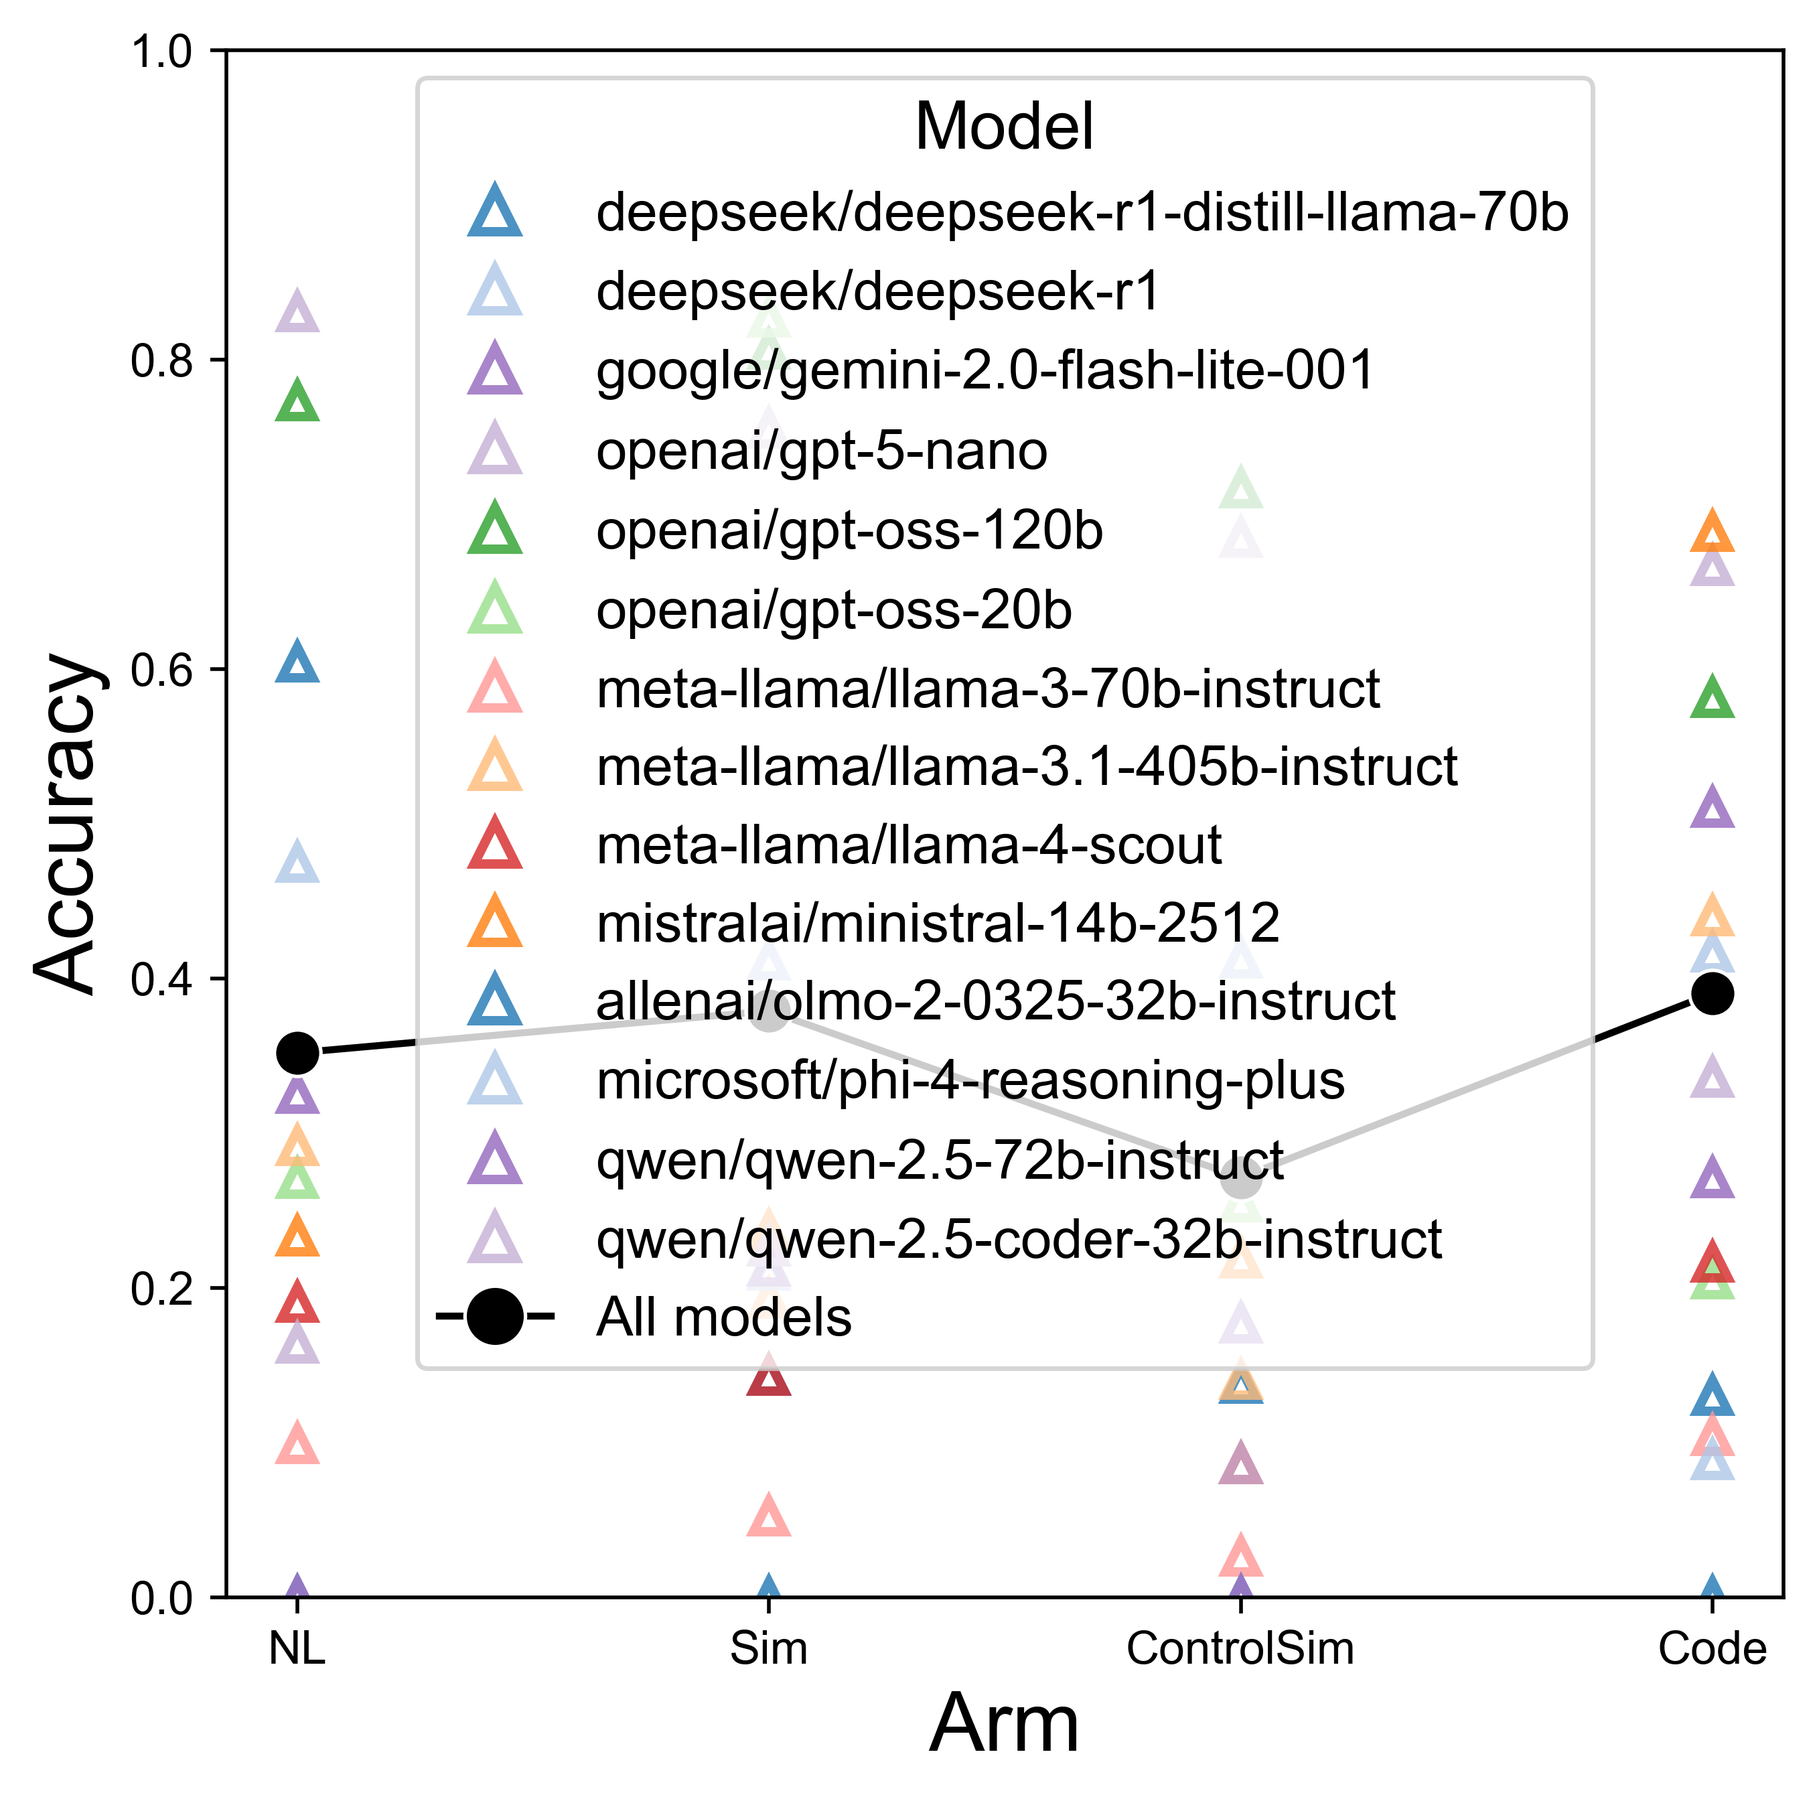
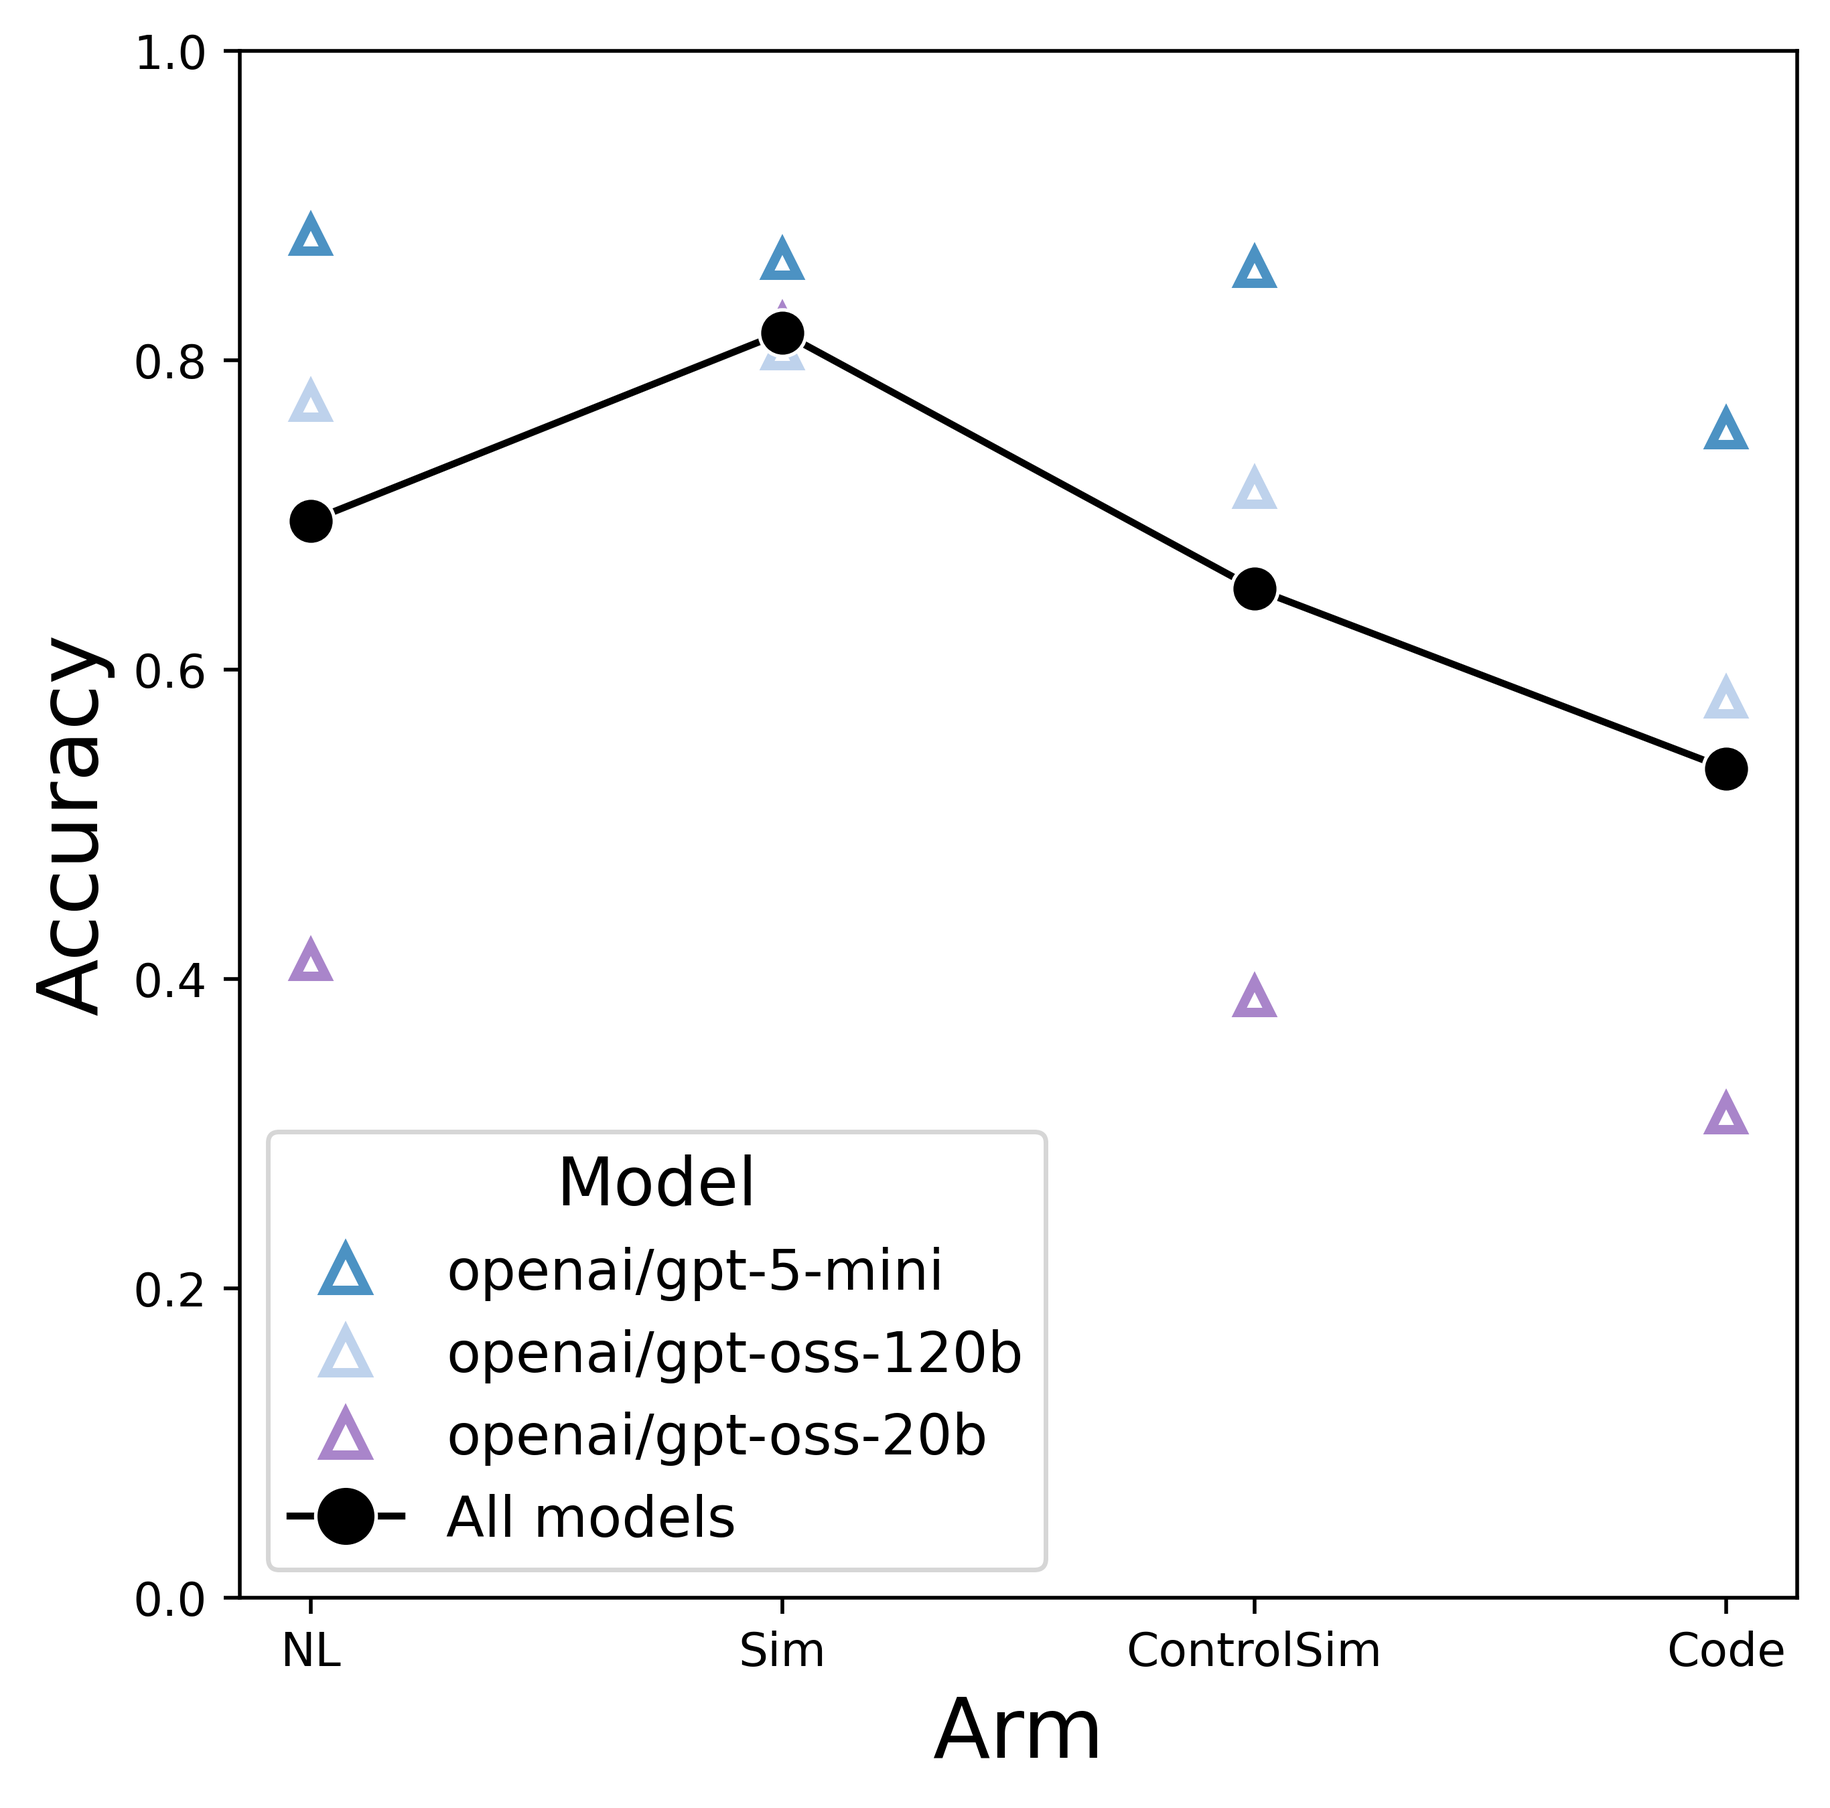
added parsing logic

diff --git a/src/exps_performance/problems/__init__.py b/src/exps_performance/problems/__init__.py
@@ -1,3 +1,6 @@
+import ast
+import json
+import re
 from abc import ABC, abstractmethod
 from dataclasses import dataclass
 from typing import Any, Sequence, Tuple, Type, Union
@@ -8,6 +11,7 @@ from langchain_core.prompts.prompt import PromptTemplate
 from pydantic import BaseModel, Field
 
 from src.exps_performance.logger import Record
+from src.exps_performance.utils import remove_json_backticks, remove_python_triple_quote
 
 
 class CheckAndFormat(ABC):
@@ -25,11 +29,99 @@ class CheckAndFormat(ABC):
     def decision_check(self, q: Any, output: Any) -> Tuple[bool, Any]:
         raise NotImplementedError
 
-    def parse_output(self, output: Any) -> Tuple[BaseModel, str]:  # returns one of the pydantic objects
+    def _strip_fences(self, text: str) -> str:
+        """Remove common markdown fences/backticks that break JSON parsing."""
+        text = remove_json_backticks(text)
+        if "```" in text:
+            text = re.sub(r"^```[a-zA-Z0-9]*\s*", "", text.strip(), flags=re.DOTALL)
+            text = text.replace("```", "")
+        return text.strip()
+
+    def _extract_json_span(self, text: str) -> str:
+        """Keep content between the first opening and last closing brace/bracket."""
+        starts = [pos for pos in (text.find("{"), text.find("[")) if pos != -1]
+        ends = [pos for pos in (text.rfind("}"), text.rfind("]")) if pos != -1]
+        if not starts or not ends:
+            return text
+        start = min(starts)
+        end = max(ends)
+        return text[start : end + 1] if start < end else text
+
+    def _strip_trailing_commas(self, text: str) -> str:
+        return re.sub(r",(\s*[}\]])", r"\1", text)
+
+    def _normalize_single_quotes(self, text: str) -> str:
+        """Swap single quotes to double quotes when no double quotes are present."""
+        if '"' not in text and "'" in text:
+            return text.replace("'", '"')
+        return text
+
+    def _same_as_default(self, parsed: BaseModel, default_model: BaseModel) -> bool:
         try:
-            return self.parser.parse(output), "ok"  # ok
+            if hasattr(parsed, "model_dump") and hasattr(default_model, "model_dump"):
+                return bool(parsed.model_dump() == default_model.model_dump())
+            if hasattr(parsed, "dict") and hasattr(default_model, "dict"):
+                return bool(parsed.dict() == default_model.dict())  # type: ignore[call-arg]
+        except Exception:  # noqa: BLE001
+            return False
+        return False
+
+    def parse_output(self, output: Any) -> Tuple[BaseModel, str]:  # returns one of the pydantic objects
+        model_cls = self.PROB_TYPES[self.prob_type]
+        default_model = model_cls()
+        last_err: str | Exception = "parse_failed"
+
+        # First attempt: strict LangChain parser.
+        try:
+            parsed = self.parser.parse(output)
+            if not self._same_as_default(parsed, default_model):
+                return parsed, "ok"  # ok
+            last_err = "empty_parse"
         except OutputParserException as e:
-            return self.PROB_TYPES[self.prob_type](), e  # err
+            last_err = e  # keep for diagnostics
+
+        text = output if isinstance(output, str) else str(output)
+        text = remove_python_triple_quote(text)
+        text = self._strip_fences(text)
+        text = text.strip()
+
+        candidates = []
+        base = self._extract_json_span(text)
+        candidates.append(base)
+
+        trimmed = self._strip_trailing_commas(base)
+        if trimmed != base:
+            candidates.append(trimmed)
+
+        normalized = self._normalize_single_quotes(trimmed)
+        if normalized not in candidates:
+            candidates.append(normalized)
+
+        # De-duplicate while preserving order.
+        seen = set()
+        unique_candidates = []
+        for cand in candidates:
+            if cand not in seen:
+                unique_candidates.append(cand)
+                seen.add(cand)
+
+        for cand in unique_candidates:
+            try:
+                loaded = json.loads(cand)
+                if isinstance(loaded, dict):
+                    return model_cls(**loaded), "ok"
+            except Exception as json_err:  # noqa: BLE001
+                last_err = json_err
+
+            # Try pythonic dicts / numbers (e.g., single quotes) via literal_eval.
+            try:
+                loaded = ast.literal_eval(cand)
+                if isinstance(loaded, dict):
+                    return model_cls(**loaded), "ok"
+            except Exception as lit_err:  # noqa: BLE001
+                last_err = lit_err
+
+        return default_model, str(last_err)
 
     def prompt_template(self, input_var: Union[str, Sequence[str]]) -> PromptTemplate:
         input_vars = [input_var] if isinstance(input_var, str) else list(input_var)

diff --git a/tests/unit/test_parser_rerun.py b/tests/unit/test_parser_rerun.py
@@ -1,0 +1,93 @@
+from typing import Any
+
+import pytest
+
+from src.exps_performance.arms import RERUN, Arm2
+from src.exps_performance.problems.finegrained import FgQuestion
+
+
+def _fg_question(answer: str = "2") -> FgQuestion:
+    return FgQuestion(kind="finegrained", digits=1, question="Compute: 1 + 1", answer=answer)
+
+
+def test_parser_reruns_until_valid_json(monkeypatch: pytest.MonkeyPatch, default_args: Any) -> None:
+    calls: list[int] = []
+    question = _fg_question("2")
+
+    def _fake_run_batch(messages_list: list[list[dict[str, str]]], args: Any, client: Any) -> list[str]:
+        calls.append(len(messages_list))
+        if len(messages_list) == 1:
+            return ['{"Answer": "2", bad}']  # malformed JSON to force parse failure
+        return [
+            '{"Answer": "2", "simulation": "ok",}',  # trailing comma -> still a parse error
+            '{"Answer": "2", "simulation": "ok"}',  # succeeds on second attempt
+            '{"Answer": "2", "simulation": "ok"}',
+        ]
+
+    monkeypatch.setattr("src.exps_performance.arms.run_batch", _fake_run_batch)
+
+    arm = Arm2([question], default_args, client=None)
+    accuracy, edited = arm.run()
+
+    assert calls == [1, RERUN]
+    assert arm.reparse_ind == [0]
+    assert arm.parse_fail == 1  # first attempt failed
+    assert accuracy == 1.0
+    assert edited[0].record.sim_parse_err is False
+    assert arm.parsed_answer[0].Answer == "2"
+
+
+def test_parser_stops_after_rerun_budget(monkeypatch: pytest.MonkeyPatch, default_args: Any) -> None:
+    calls: list[int] = []
+    question = _fg_question("4")
+
+    def _always_bad(messages_list: list[list[dict[str, str]]], args: Any, client: Any) -> list[str]:
+        calls.append(len(messages_list))
+        if len(messages_list) == 1:
+            return ["Answer: oops"]  # clearly not JSON
+        return ["not json", "still bad", "{bad json"]  # all invalid
+
+    monkeypatch.setattr("src.exps_performance.arms.run_batch", _always_bad)
+
+    arm = Arm2([question], default_args, client=None)
+    accuracy, edited = arm.run()
+
+    default_model = question.util_pointer("code").PROB_TYPES["code"]()
+
+    assert calls == [1, RERUN]
+    assert arm.reparse_ind == [0]
+    assert arm.parse_fail == 1
+    assert accuracy == 0.0
+    parsed = arm.parsed_answer[0]
+    if hasattr(parsed, "model_dump"):
+        assert parsed.model_dump() == default_model.model_dump()
+    else:
+        assert parsed.dict() == default_model.dict()
+    assert edited[0].record.sim_parse_err is True
+
+
+def test_arm2_rerun_recovers_from_messy_json(monkeypatch: pytest.MonkeyPatch, default_args: Any) -> None:
+    calls: list[int] = []
+    question = _fg_question("2")
+
+    def _messy(messages_list: list[list[dict[str, str]]], args: Any, client: Any) -> list[str]:
+        calls.append(len(messages_list))
+        if len(messages_list) == 1:
+            return ["completely not json"]
+        return [
+            '```json\n{"Answer": "2", "simulation": "ok",}\n```',
+            "{'Answer': '2', 'simulation': 'ok'}",
+            'prefix {"Answer": "2", "simulation": "ok"} suffix',
+        ]
+
+    monkeypatch.setattr("src.exps_performance.arms.run_batch", _messy)
+
+    arm = Arm2([question], default_args, client=None)
+    accuracy, edited = arm.run()
+
+    assert calls == [1, RERUN]
+    assert arm.reparse_ind == [0]
+    assert arm.parse_fail == 1
+    assert accuracy == 1.0
+    assert edited[0].record.sim_parse_err is False
+    assert arm.parsed_answer[0].Answer == "2"

diff --git a/src/exps_performance/arms.py b/src/exps_performance/arms.py
@@ -96,6 +96,17 @@ class BaseArm:
             total_correct.append(bool(correct))
         return count / len(self.problems), total_correct
 
+    @staticmethod
+    def _is_default_model(parsed_output: Any, default_model: Any) -> bool:
+        try:
+            if hasattr(parsed_output, "model_dump") and hasattr(default_model, "model_dump"):
+                return bool(parsed_output.model_dump() == default_model.model_dump())
+            if hasattr(parsed_output, "dict") and hasattr(default_model, "dict"):
+                return bool(parsed_output.dict() == default_model.dict())  # type: ignore[call-arg]
+        except Exception:  # noqa: BLE001
+            return False
+        return False
+
     def _parse(self, answers: List[str]) -> List[Tuple[Any, str]]:
         self.parse_fail = 0
         all_parsed = []
@@ -106,7 +117,7 @@ class BaseArm:
             a = remove_python_triple_quote(a)
             parsed_output, err = pUtil.parse_output(a)
             default = pUtil.PROB_TYPES[self.run_type]()
-            if parsed_output == default:
+            if self._is_default_model(parsed_output, default):
                 self.parse_fail += 1
                 parse_failed.append((i, q, parsed_output, pUtil, default))
             all_parsed.append((parsed_output, str(err)))
@@ -156,15 +167,15 @@ class BaseArm:
             prob_index = i // RERUN  # i w.r.t. to given list
             rerun_index = i % RERUN  # 443 -> 3
             llm_o = remove_python_triple_quote(llm_o)  # not accepted by langchain
-            parsed, err = pUtil.parse_output(llm_o)
-            og_ind, problem, parsed, pUtil, default = to_reparse[prob_index]
-            if parsed != default or rerun_index == (RERUN - 1):
-                outs.append((og_ind, parsed, err))
+            parsed_output, err = pUtil.parse_output(llm_o)
+            og_ind, problem, _prev_parsed, pUtil, default = to_reparse[prob_index]
+            if not self._is_default_model(parsed_output, default) or rerun_index == (RERUN - 1):
+                outs.append((og_ind, parsed_output, err))
                 i += RERUN - rerun_index
             else:
                 i += 1
         if len(to_reparse) != len(outs):
-            outs.append((og_ind, parsed, err))
+            outs.append((og_ind, parsed_output, err))
         return outs
 
 
@@ -247,7 +258,7 @@ class Arm3(BaseArm):
         itf = ProgramChatInterface(
             answer_expr="solution()",
             timeout_seconds=getattr(self.default_args, "exec_timeout_seconds", 5),
-            max_attempts=getattr(self.default_args, "exec_max_attempts", 5),
+            max_attempts=getattr(self.default_args, "exec_max_attempts", 2),
         )
         return itf.run(code)
 

diff --git a/src/exps_performance/analysis.py b/src/exps_performance/analysis.py
@@ -18,7 +18,6 @@ def plot_main_fig(df: pd.DataFrame) -> None:
     #     train_lengths_dict[alg] = np.array(train_length)
     sns.reset_defaults()
     # import pdb; pdb.set_trace()
-    # df1 = df[df["model"].isin(["Qwen/Qwen2.5-14B-Instruct", "mistralai/Mistral-Small-24B-Instruct-2501"])]
     df1 = df
     df2 = df1
     # df2 = df1[df1["kind"].isin(["add", "mul", "lcs", "rod", "knap", "ilp_assign", "ilp_prod", "ilp_partition"])]
@@ -195,12 +194,44 @@ def plot_p_vals(df: pd.DataFrame) -> None:
     plt.savefig("figures/pval.png", bbox_inches="tight")
 
 
+models = [
+    "anthropic/claude-haiku-4.5",
+    "anthropic/claude-sonnet-4",
+    "openai/gpt-oss-20b",
+    "openai/gpt-oss-120b",
+    "openai/gpt-5.1-codex",
+    "openai/gpt-5-mini",
+    "openai/gpt-5-nano",
+    "openai/o3-mini",
+    "deepseek/deepseek-r1",
+    "deepseek/deepseek-r1-distill-llama-70b",
+    "google/gemini-2.0-flash-lite-001",
+    "google/gemini-2.5-flash",
+    "google/gemini-2.5-pro",
+    "xai/grok-code-fast-1",
+    "meta-llama/llama-3.1-405b-instruct",
+    "meta-llama/llama-3.3-70b-instruct",
+    "meta-llama/llama-3-70b-instruct",
+    "meta-llama/llama-4-scout",
+    "mistral/devstral-medium",
+    "mistral/ministral-14b-2512",
+    "qwen/qwen-2.5-72b-instruct",
+    "qwen/qwen-2.5-coder-32b-instruct",
+    "qwen/qwen3-coder-30b-a3b-instruct",
+    "zhipuai/glm-4.6",
+    "allenai/olmo-2-0325-32b-instruct",
+    "microsoft/phi-4",
+    "microsoft/phi-4-reasoning-plus",
+]
+
+
 def analysis() -> None:
     results_root = Path("/nlpgpu/data/terry/ToolProj/src/exps_performance/results")
     jsonl_files = sorted(results_root.rglob("*.jsonl"))
     if not jsonl_files:
         raise FileNotFoundError(f"No JSONL files found under {results_root}")
     df = create_big_df(jsonl_files)
+    df = df[df["model"].isin(["openai/gpt-oss-20b", "openai/gpt-oss-120b", "openai/gpt-5-mini"])]
 
     plot_p_vals(df)
     plot_main_fig(df)

diff --git a/tests/unit/test_parser_lenient.py b/tests/unit/test_parser_lenient.py
@@ -1,0 +1,32 @@
+from typing import Tuple
+
+from src.exps_performance.problems.finegrained import FgCheckAndFormat
+
+
+def _fg_util() -> FgCheckAndFormat:
+    return FgCheckAndFormat("code")
+
+
+def _parse(text: str) -> Tuple[str, str]:
+    parsed, err = _fg_util().parse_output(text)
+    return parsed.Answer, err
+
+
+def test_parse_handles_trailing_comma_and_fence() -> None:
+    answer, err = _parse('```json\n{"Answer": "2", "simulation": "ok",}\n```')
+    assert answer == "2"
+    assert err == "ok"
+
+
+def test_parse_handles_single_quotes_and_noise() -> None:
+    noisy = "prefix {'Answer': '3', 'simulation': 'ok'} suffix"
+    answer, err = _parse(noisy)
+    assert answer == "3"
+    assert err == "ok"
+
+
+def test_parse_returns_default_on_bad_payload() -> None:
+    util = _fg_util()
+    parsed, err = util.parse_output("not json at all")
+    assert parsed == util.PROB_TYPES["code"]()
+    assert err != "ok"

diff --git a/src/exps_performance/core/executor.py b/src/exps_performance/core/executor.py
@@ -37,7 +37,7 @@ class GenericRuntime:
 
 
 class ProgramChatInterface:
-    def __init__(self, answer_expr: str = "solution()", timeout_seconds: int = 2, max_attempts: int = 5):
+    def __init__(self, answer_expr: str = "solution()", timeout_seconds: int = 5, max_attempts: int = 2):
         self.answer_expr = answer_expr
         self.timeout_seconds = timeout_seconds
         self.max_attempts = max_attempts
